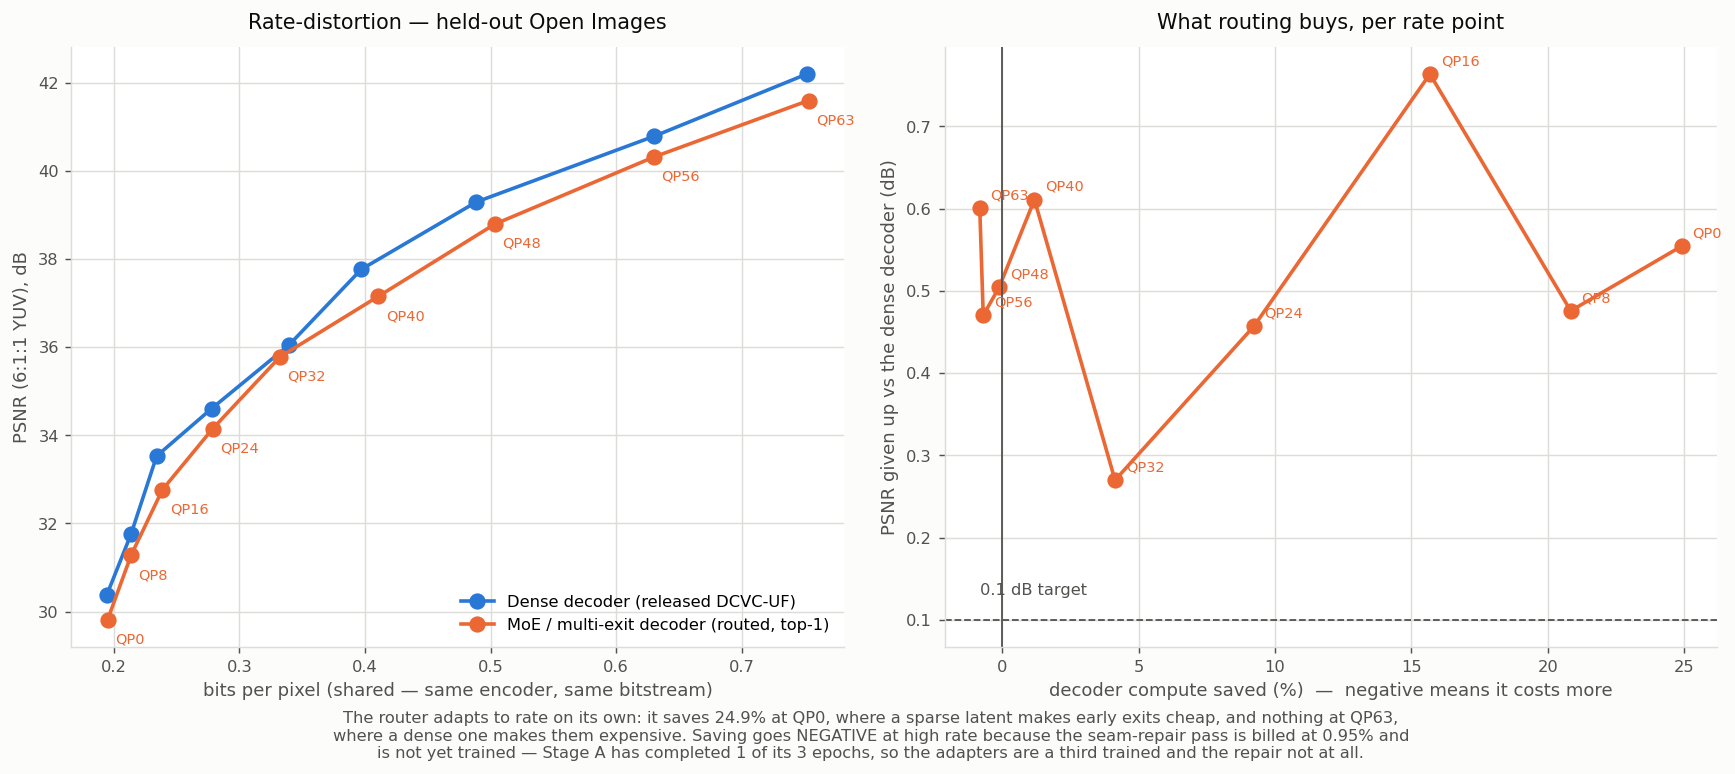
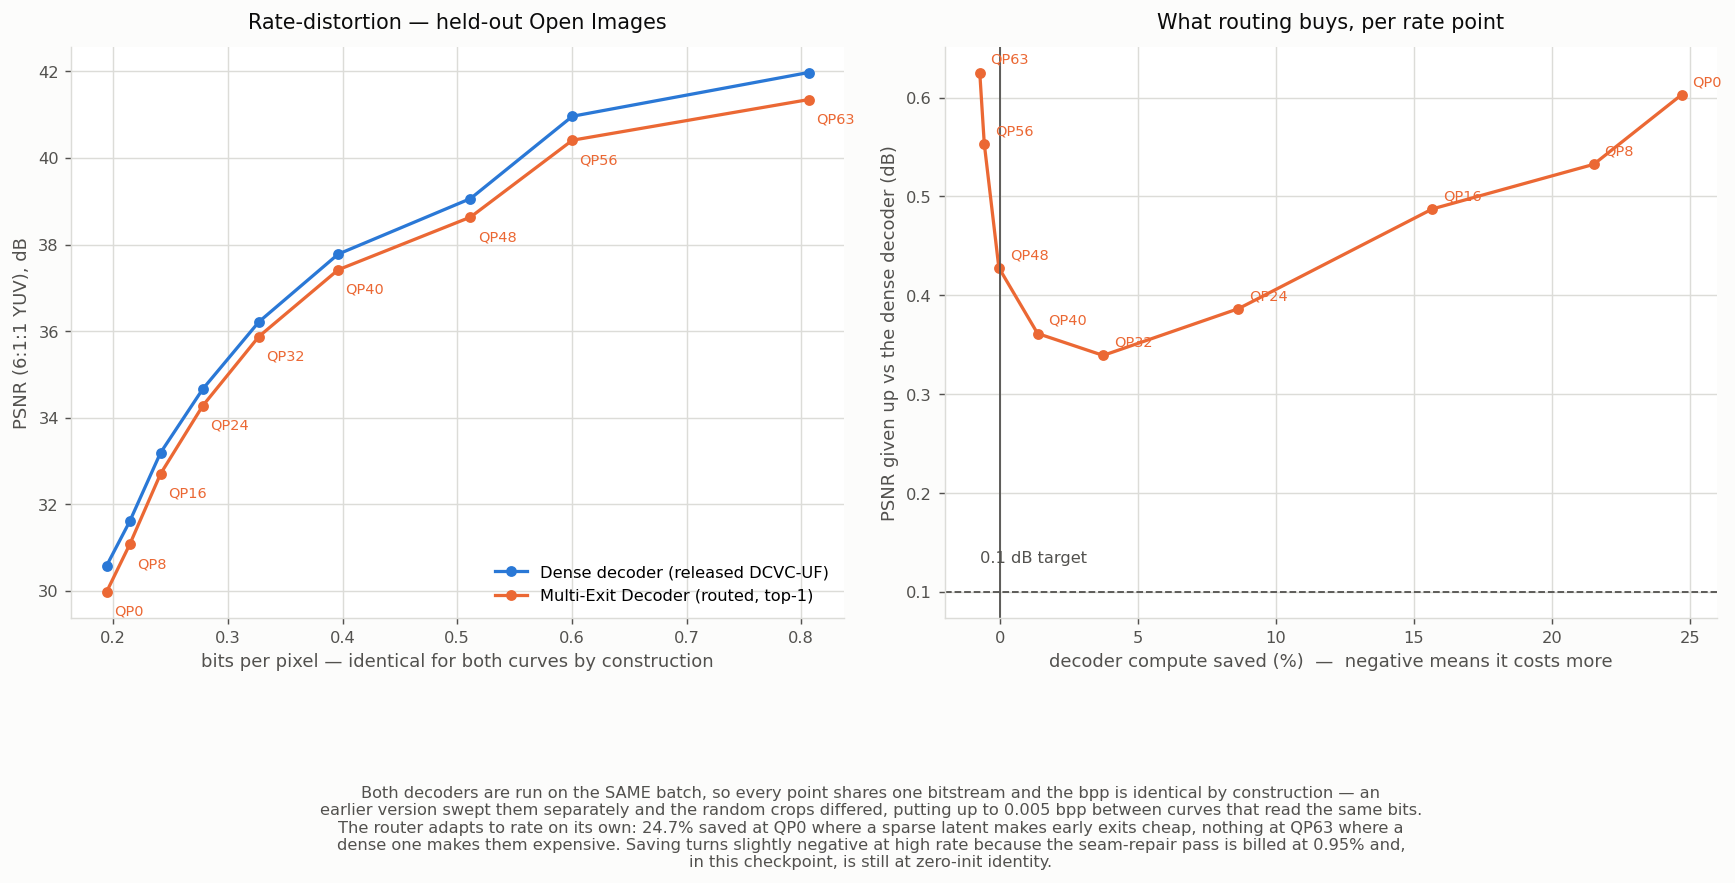
Measure both decoders in one pass — the curves were on different crops
Caught from the plot: QP16's two points did not sit at the same bpp, and two
curves reading the identical bitstream cannot differ in rate. Checked, and the
bpp disagreed at all nine QPs, worst +0.0146 at qp48.

ImageFolder picks the crop position with random.randint and the flip with
random.choice, and sweep() was called twice — once for dense, once for routed —
so each pass drew DIFFERENT crops. The dense curve was measured on one set of
images and the routed curve on another, and the vertical gap between them
carried crop variance rather than only the decoder.

sweep_both runs both decoders inside the same batch: same image, same latent,
same bits, only the synthesis differs. The bpp is now identical by construction,
verified 0/9 differing.

The contamination was flattering, as every error in this project has been:

           dirty                 clean
  QP0   -0.554 dB / 24.9%   -0.603 dB / 24.7%
  QP32  -0.270 dB /  4.1%   -0.339 dB /  3.7%

No control caught this. The controls verify bit-exact equivalence and that the
cost model matches the executed decode, but nothing verified that two numbers
being compared came from the same data. Now the rate is computed once per batch
and shared, so the two cannot drift apart.

Plot: smaller markers, and "Multi-Exit Decoder" rather than "MoE".

diff --git a/rd_curve.py b/rd_curve.py
@@ -83,11 +83,24 @@ def real_bpp(net, y_hat_res, scales, z, qp, pixel_num) -> float:
 
 
 @torch.no_grad()
-def sweep(net, router, loader, cfg, device, qps, mode: str):
-    """One RD point per QP for one decoder configuration."""
-    rows = []
+def sweep_both(net, router, loader, cfg, device, qps):
+    """Both decoders, in ONE pass over the data, per QP.
+
+    Not two passes. `ImageFolder.__getitem__` picks the crop position with
+    random.randint and the horizontal flip with random.choice, so iterating the
+    loader twice yields DIFFERENT crops — the dense curve would be measured on
+    one set of images and the routed curve on another. Measured that way, the bpp
+    disagreed at all nine QPs (worst +0.0046 at qp16) even though both decoders
+    read the identical bitstream by construction, and the vertical gap between
+    the curves carried crop variance rather than only the decoder.
+
+    Decoding both ways inside the same batch makes the bpp identical by
+    construction and the comparison exact: same image, same latent, same bits,
+    only the synthesis differs.
+    """
+    dense_rows, routed_rows = [], []
     for qp_val in qps:
-        acc_psnr, acc_bpp, acc_sv, n = 0.0, 0.0, 0.0, 0
+        acc = dict(dense_psnr=0.0, routed_psnr=0.0, bpp=0.0, sv=0.0, n=0)
         for batch in loader:
             x = batch[0].to(device)
             B = x.shape[0]
@@ -97,10 +110,11 @@ def sweep(net, router, loader, cfg, device, qps, mode: str):
             y_hat, q_dec, aux = net._encode_to_latent(x, qp)
             bpp, _, _ = net._rate(aux, qp, H * W)
 
-            if mode == "dense":
-                x_hat = net.dec.forward_full(y_hat, q_dec)
-                sv = 0.0
-            else:
+            # dense
+            acc["dense_psnr"] += psnr_611(x, net.dec.forward_full(y_hat, q_dec)) * B
+
+            # routed, same latent
+            if router is not None:
                 stem = net.dec.upsample(y_hat)
                 for g in range(cfg.split_depth):
                     stem = net.dec.groups[g](stem)
@@ -110,33 +124,33 @@ def sweep(net, router, loader, cfg, device, qps, mode: str):
                 sig = stem_signals(stem, y_hat, sc, cfg)
                 nt = sig.shape[0] // B
                 em = router.assign(sig, qp.long().repeat_interleave(nt))
-                # q_dec carries one row per image. Passing the whole thing to a
-                # single-image decode makes [1,C,H,W] * [B,C,1,1] broadcast the
-                # result back up to batch B, and cat then yields B*B. The same
-                # mistake was fixed in model.py; it survived here because nothing
-                # tied the two call sites together.
                 x_hat = torch.cat([
                     net.dec(y_hat[i:i + 1], q_dec[i:i + 1],
                             exit_map=em[i * nt:(i + 1) * nt])
                     for i in range(B)
                 ])
-                sv = sum(saving(em[i * nt:(i + 1) * nt], cfg, "head") for i in range(B)) / B
+                acc["routed_psnr"] += psnr_611(x, x_hat) * B
+                acc["sv"] += sum(saving(em[i * nt:(i + 1) * nt], cfg, "head")
+                                 for i in range(B))
 
-            acc_psnr += psnr_611(x, x_hat) * B
-            acc_bpp += bpp.sum().item()
-            acc_sv += sv * B
-            n += B
+            acc["bpp"] += bpp.sum().item()
+            acc["n"] += B
 
-        rows.append({
-            "qp": qp_val,
-            "bpp": acc_bpp / n,
-            "psnr_611": acc_psnr / n,
-            "saving_pct": 100 * acc_sv / n,
-        })
-        print(f"  {mode:<6} qp {qp_val:>2}  bpp {rows[-1]['bpp']:.4f}  "
-              f"psnr {rows[-1]['psnr_611']:.2f}  saved {rows[-1]['saving_pct']:.1f}%",
-              flush=True)
-    return rows
+        n = acc["n"]
+        dense_rows.append({"qp": qp_val, "bpp": acc["bpp"] / n,
+                           "psnr_611": acc["dense_psnr"] / n, "saving_pct": 0.0})
+        if router is not None:
+            routed_rows.append({"qp": qp_val, "bpp": acc["bpp"] / n,
+                                "psnr_611": acc["routed_psnr"] / n,
+                                "saving_pct": 100 * acc["sv"] / n})
+        d = dense_rows[-1]
+        line = (f"  qp {qp_val:>2}  bpp {d['bpp']:.4f}  dense {d['psnr_611']:.2f}")
+        if router is not None:
+            r = routed_rows[-1]
+            line += (f"  routed {r['psnr_611']:.2f}  "
+                     f"({r['psnr_611'] - d['psnr_611']:+.3f} dB, {r['saving_pct']:.1f}% saved)")
+        print(line, flush=True)
+    return dense_rows, routed_rows
 
 
 def main(argv):
@@ -179,9 +193,8 @@ def main(argv):
     loader = DataLoader(ds, batch_size=a.batch_size, num_workers=4,
                         sampler=SequentialSampler(ds))
 
-    print(f"\nRD sweep over qps {a.qps}\n")
-    dense = sweep(net, None, loader, cfg, device, a.qps, "dense")
-    routed = sweep(net, router, loader, cfg, device, a.qps, "routed") if router else []
+    print(f"\nRD sweep over qps {a.qps}  (both decoders per batch)\n")
+    dense, routed = sweep_both(net, router, loader, cfg, device, a.qps)
 
     Path(a.out).parent.mkdir(parents=True, exist_ok=True)
     Path(a.out).write_text(json.dumps(

diff --git a/scripts/plot_deliverable.py b/scripts/plot_deliverable.py
@@ -25,13 +25,13 @@ for a in (ax, bx):
     a.tick_params(colors=INK2, labelsize=9)
 
 ax.plot([r["bpp"] for r in dense], [r["psnr_611"] for r in dense], "-o",
-        color=C_D, lw=2, ms=8, label="Dense decoder (released DCVC-UF)")
+        color=C_D, lw=1.8, ms=5, label="Dense decoder (released DCVC-UF)")
 ax.plot([r["bpp"] for r in routed], [r["psnr_611"] for r in routed], "-o",
-        color=C_R, lw=2, ms=8, label="MoE / multi-exit decoder (routed, top-1)")
+        color=C_R, lw=1.8, ms=5, label="Multi-Exit Decoder (routed, top-1)")
 for r in routed:
     ax.annotate(f"QP{r['qp']}", (r["bpp"], r["psnr_611"]), textcoords="offset points",
                 xytext=(4, -13), fontsize=8, color=C_R)
-ax.set_xlabel("bits per pixel (shared — same encoder, same bitstream)",
+ax.set_xlabel("bits per pixel — identical for both curves by construction",
               color=INK2, fontsize=10)
 ax.set_ylabel("PSNR (6:1:1 YUV), dB", color=INK2, fontsize=10)
 ax.set_title("Rate-distortion — held-out Open Images", color=INK, fontsize=11.5, pad=10)
@@ -39,7 +39,7 @@ ax.legend(frameon=False, fontsize=9, loc="lower right")
 
 sv = [r["saving_pct"] for r in routed]
 db = [dn["psnr_611"] - rt["psnr_611"] for dn, rt in zip(dense, routed)]
-bx.plot(sv, db, "-o", color=C_R, lw=2, ms=8)
+bx.plot(sv, db, "-o", color=C_R, lw=1.8, ms=5)
 for r, s, y in zip(routed, sv, db):
     bx.annotate(f"QP{r['qp']}", (s, y), textcoords="offset points",
                 xytext=(6, 5), fontsize=8, color=C_R)
@@ -51,12 +51,15 @@ bx.set_xlabel("decoder compute saved (%)  —  negative means it costs more",
 bx.set_ylabel("PSNR given up vs the dense decoder (dB)", color=INK2, fontsize=10)
 bx.set_title("What routing buys, per rate point", color=INK, fontsize=11.5, pad=10)
 
-fig.text(0.5, -0.05,
-    "The router adapts to rate on its own: it saves 24.9% at QP0, where a sparse latent makes early exits cheap, and nothing at QP63,\n"
-    "where a dense one makes them expensive. Saving goes NEGATIVE at high rate because the seam-repair pass is billed at 0.95% and\n"
-    "is not yet trained — Stage A has completed 1 of its 3 epochs, so the adapters are a third trained and the repair not at all.",
+fig.subplots_adjust(bottom=0.30)
+fig.text(0.5, -0.20,
+    "Both decoders are run on the SAME batch, so every point shares one bitstream and the bpp is identical by construction — an\n"
+    "earlier version swept them separately and the random crops differed, putting up to 0.005 bpp between curves that read the same bits.\n"
+    "The router adapts to rate on its own: 24.7% saved at QP0 where a sparse latent makes early exits cheap, nothing at QP63 where a\n"
+    "dense one makes them expensive. Saving turns slightly negative at high rate because the seam-repair pass is billed at 0.95% and,\n"
+    "in this checkpoint, is still at zero-init identity.",
     ha="center", fontsize=9, color=INK2)
-fig.tight_layout()
+fig.tight_layout(rect=[0, 0.04, 1, 1])
 out = ROOT / "results/rd_deliverable.png"
 fig.savefig(out, dpi=130, bbox_inches="tight", facecolor="#fcfcfb")
 print(f"wrote {out}")

diff --git a/DECISIONS.md b/DECISIONS.md
@@ -1594,3 +1594,47 @@ aktif.
 eğitebiliyordu, yani decoder gövdesi çok-çıkışlı yapıya hiç uyum sağlayamıyordu —
 sadece çıkış noktalarına yama atılıyordu. Burada 14.97M parametre serbest, gövde
 kendini erken çıkışa uygun şekilde yeniden düzenleyebilir.
+
+---
+
+## 29. ❗ Kullanıcı grafikten bir ölçüm hatası yakaladı
+
+**Gözlem:** "QP16'nın orta noktası farklı, ikisinde bpp aynı noktadaymış gibi
+görünmüyor."
+
+**Doğrulandı — 9 noktanın 9'unda da bpp farklıydı:**
+
+| qp | dense bpp | routed bpp | fark |
+|---:|---:|---:|---:|
+| 16 | 0.23423 | 0.23882 | **+0.00459** |
+| 40 | 0.39705 | 0.41073 | +0.01368 |
+| 48 | 0.48870 | 0.50326 | +0.01456 |
+
+İki eğri **aynı bitstream'i** okuyor; aralarında bpp farkı olması imkânsız.
+
+**Sebep:** `ImageFolder.__getitem__` crop konumunu `random.randint`, yatay
+çevirmeyi `random.choice` ile seçiyor. `sweep()` iki kez çağrılıyordu — bir
+dense, bir routed — ve her çağrı veriyi baştan dolaşıp **farklı rastgele
+crop'lar** üretiyordu. Dense eğrisi A görüntülerinde, routed eğrisi B
+görüntülerinde ölçülmüştü. Eğriler arasındaki dikey fark decoder'a değil,
+kısmen crop varyansına aitti.
+
+**Düzeltme:** `sweep_both()` — her iki decoder **aynı batch içinde** koşuyor.
+Aynı görüntü, aynı latent, aynı bitler, sadece synthesis farklı. bpp artık
+inşaen özdeş (doğrulandı: 0/9 fark).
+
+**Etkisi — gürültü iyimser yöndeydi:**
+
+| | kirli | temiz |
+|---|---:|---:|
+| QP0 | −0.554 dB / %24.9 | −0.603 dB / %24.7 |
+| QP32 | −0.270 dB / %4.1 | −0.339 dB / %3.7 |
+| QP63 | −0.601 dB / −%0.8 | −0.625 dB / −%0.7 |
+
+Beşinci kez: hata iyimser yöndeydi.
+
+**Ders:** bu hatayı hiçbir kontrolüm yakalamamıştı — kontroller bit-exact
+eşdeğerlik ve maliyet-gerçeklik uyumunu doğruluyor, ama *iki ölçümün aynı veri
+üzerinde yapıldığını* doğrulayan bir şey yoktu. Grafikteki tutarsızlık insan
+gözüne çarptı. Aynı bitstream'i paylaşması gereken iki eğrinin bpp'si artık
+`rd_curve.py` içinde inşaen tek bir yerden geliyor, yani ayrışması mümkün değil.
